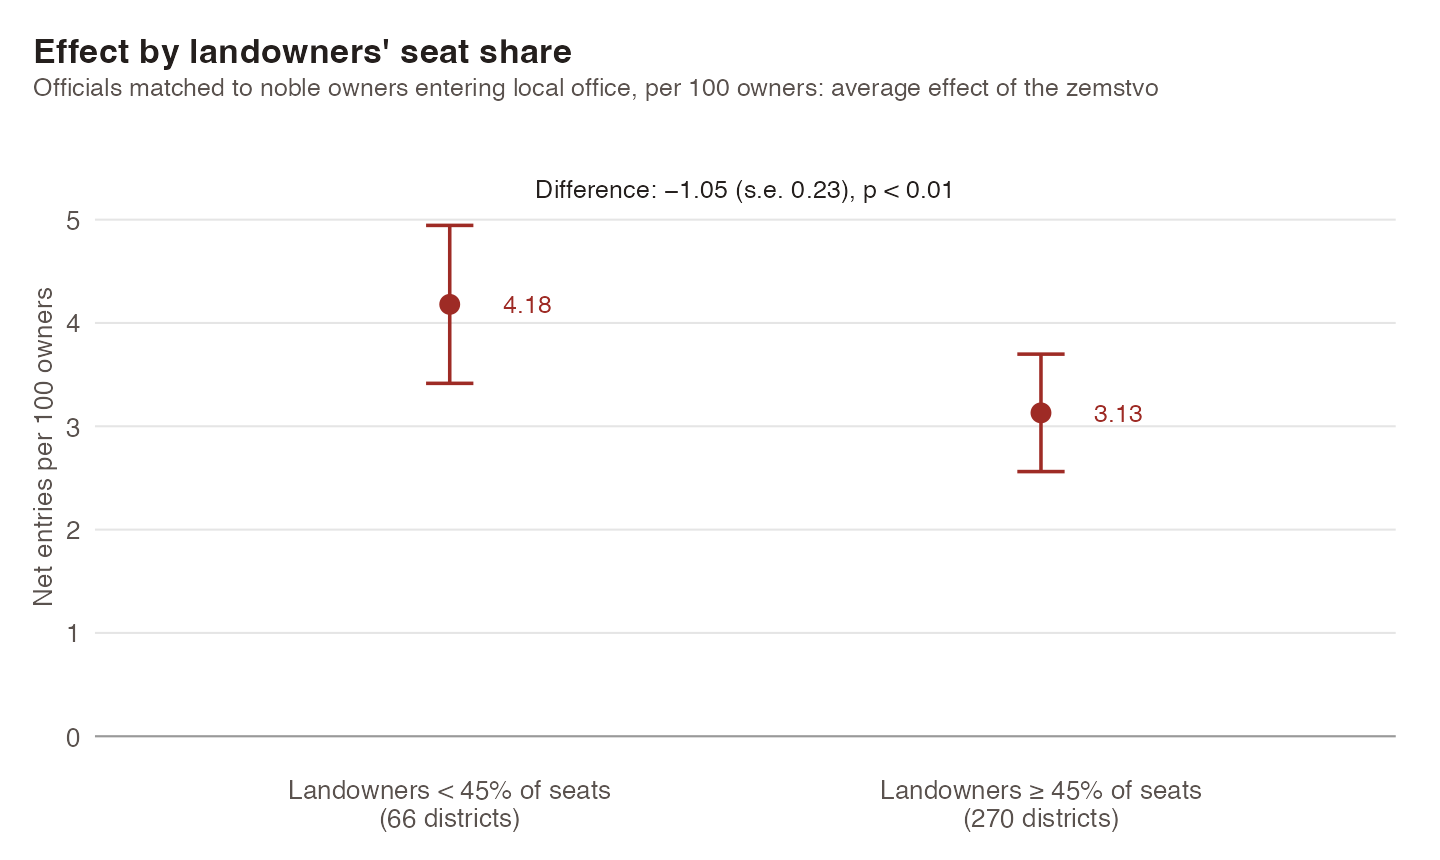
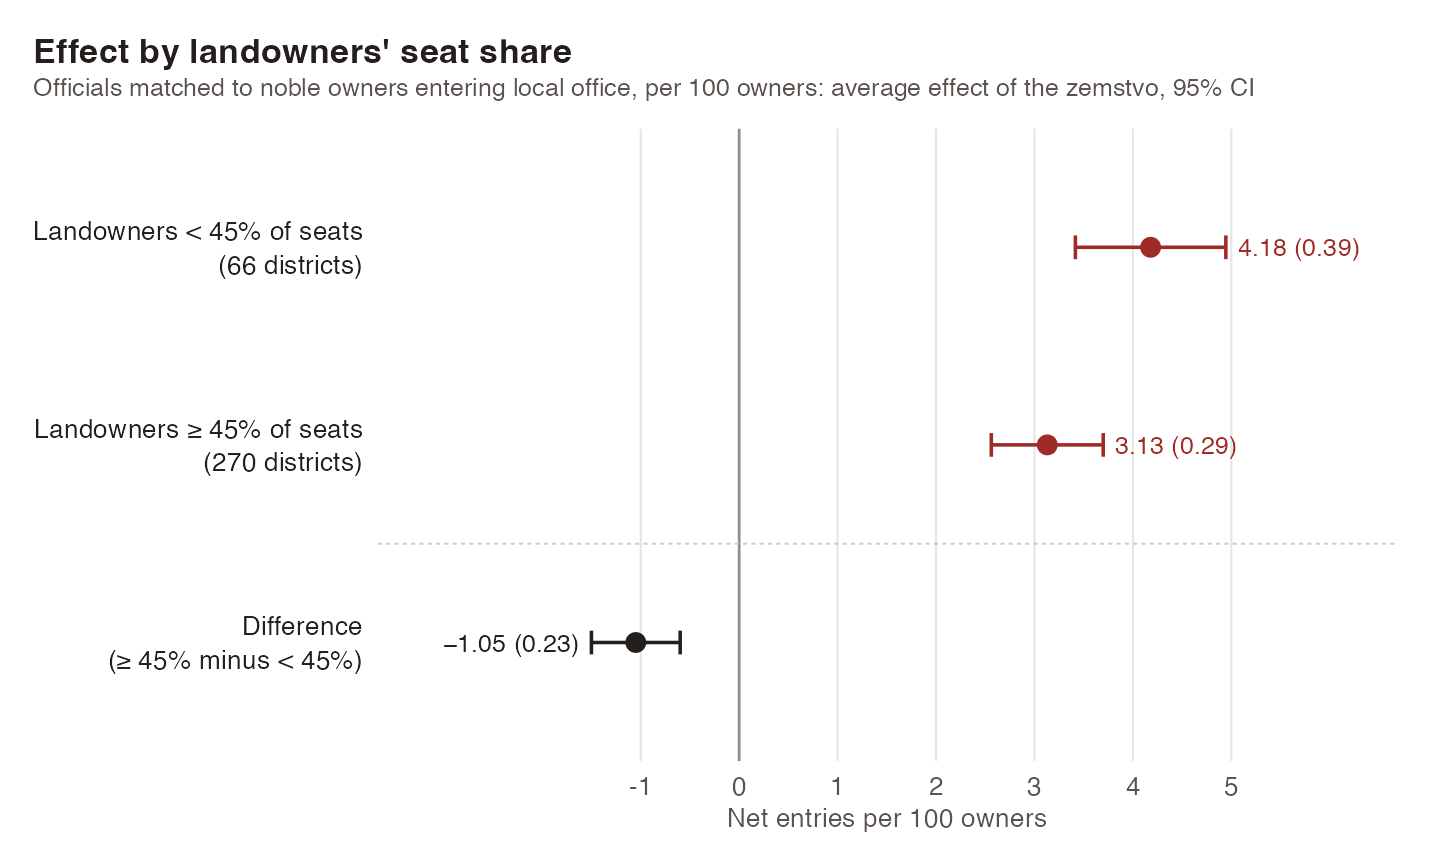
Zemstvo seat-share figure: weak, strong, difference as rows

diff --git a/research.html b/research.html
@@ -279,7 +279,7 @@
             <p class="status"><span class="pill working">Working paper</span><span class="pill year">2026</span><span class="pill poster"><a href="Landowners_into_Bureaucrats_poster.pdf">Poster <span class="pdf">PDF</span></a></span></p>
             <p class="byline">with Otto Kienitz</p>
             <details><summary>Abstract</summary><div class="abstract"><p>How do weak states build state capacity, particularly when they lack the resources, personnel, and information to govern effectively? We argue that they can do so by enfranchising the majority in local assemblies with the power to tax the elites. A weak state needs the human capital of local elites and attempts to recruit them into bureaucratic service. Yet, when elites have control over local taxation, they prefer not to tax themselves, leading to small budgets for public goods provision and thus little reason for them to serve in local office. When the majority is enfranchised and given the power to tax, budgets grow, and local office becomes more attractive to local elites. As a result, the same elites who oppose new taxes nonetheless enter local office to implement the policies funded by the expanded tax base. In 1864 the Russian autocracy created such elected local assemblies, the <em>zemstvo</em>, enfranchising more than forty million people, and giving peasants and townspeople a say over the power to tax noble land. The reform reduced the political power of the nobility and was followed by an explosion of elite participation in local administration. Using the allocation of assembly seats and comprehensive historical data on bureaucratic appointments, local taxes, and noble estates, we show that the opening of a <em>zemstvo</em> assembly systematically brought landowning elites into local office, identified by their names and ranks. The local taxes controlled by the new assemblies rose over time, and where the majority held power, landowning elites paid more. Paradoxically, participatory local government emerged in the Russian Empire not from democratic pressure from below, but from an autocracy building state capacity from a position of weakness, demonstrating a new pathway leading from inclusive institutions to bureaucratic development.</p></div></details>
-            <figure class="paperfig"><a class="figlink" href="images/figures/fig-zemstvo-seats.png"><img src="images/figures/fig-zemstvo-seats.png" alt="Point-and-interval plot of the average effect of the zemstvo on officials matched to noble owners per 100 owners: 4.18 where landowners held less than 45% of seats, 3.13 where they held at least 45%; difference -1.05." loading="lazy"></a><figcaption>The zemstvo brought more estate owners into local office where landowners held less than 45% of the assembly seats. Average effect on net entries of officials matched to noble owners, per 100 owners, with 95% confidence intervals.</figcaption></figure>
+            <figure class="paperfig"><a class="figlink" href="images/figures/fig-zemstvo-seats.png"><img src="images/figures/fig-zemstvo-seats.png" alt="Horizontal point-and-interval plot with three rows: 4.18 where landowners held less than 45% of seats, 3.13 where they held at least 45%, and the difference of -1.05, whose interval excludes zero." loading="lazy"></a><figcaption>The zemstvo brought more estate owners into local office where landowners held less than 45% of the assembly seats. Average effect on net entries of officials matched to noble owners, per 100 owners, for each group and their difference, with 95% confidence intervals.</figcaption></figure>
             <p class="availability">Draft available upon request.</p>
             <p class="presented">Presented at the Stanford Historical Social Science Workshop, the Berkeley&ndash;Stanford Bay Area Economic History Workshop, the Andrea Mitchell Center Graduate Workshop, and the Summer Workshop in the Economic History and Historical Political Economy of Eurasia.</p>
           </div>
